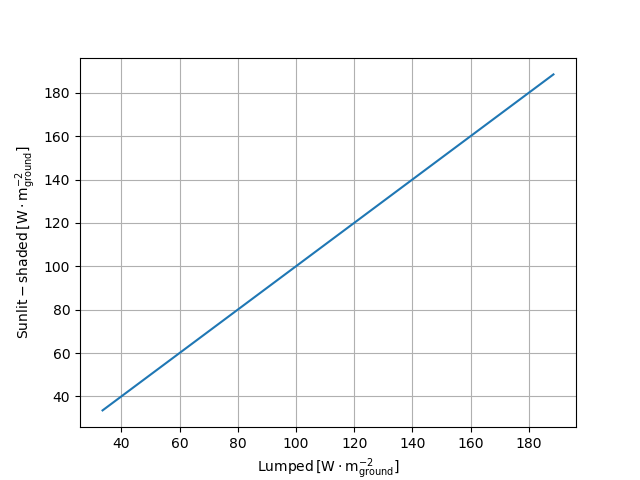
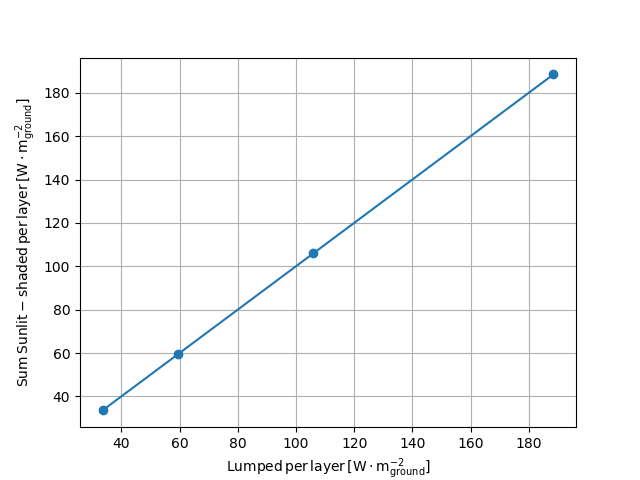
minor modifications to fig axes titles

diff --git a/examples/layered_lumped_de_pury_vs_sunlit_shaded/sim.py b/examples/layered_lumped_de_pury_vs_sunlit_shaded/sim.py
@@ -41,9 +41,9 @@ def plot_absorbed_irradiance_profiles(incident_diffuse_irradiance, incident_dire
 def plot_linear_comparison(lumped_layer_irradiance, shaded_layer_irradiance, sunlit_layer_irradiance):
     _, ax = plt.subplots()
     ax.plot(lumped_layer_irradiance,
-            [sum(abs_par) for abs_par in zip(sunlit_layer_irradiance, shaded_layer_irradiance)])
-    ax.set(xlabel=r'$\mathregular{Lumped\/[W \cdot m^{-2}_{ground}]}$',
-           ylabel=r'$\mathregular{Sunlit-shaded\/[W \cdot m^{-2}_{ground}]}$')
+            [sum(abs_par) for abs_par in zip(sunlit_layer_irradiance, shaded_layer_irradiance)], 'o-')
+    ax.set(xlabel=r'$\mathregular{Lumped\/per\/layer\/[W \cdot m^{-2}_{ground}]}$',
+           ylabel=r'$\mathregular{Sum\/Sunlit-shaded\/per\/layer\/[W \cdot m^{-2}_{ground}]}$')
     ax.grid()
     plt.savefig('absorbed_irradiance_comparison.png')
     plt.close()
